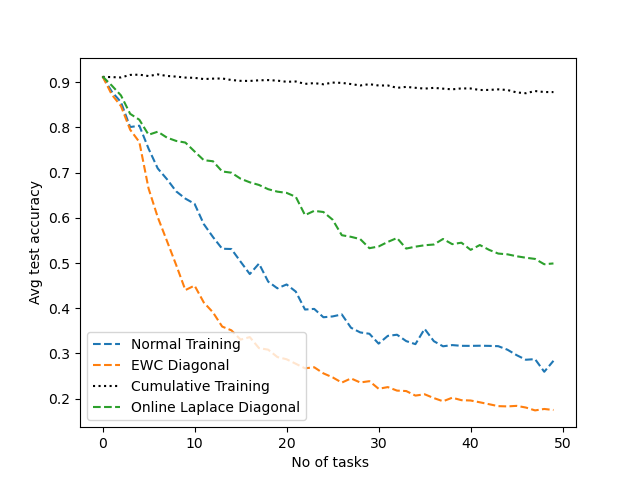
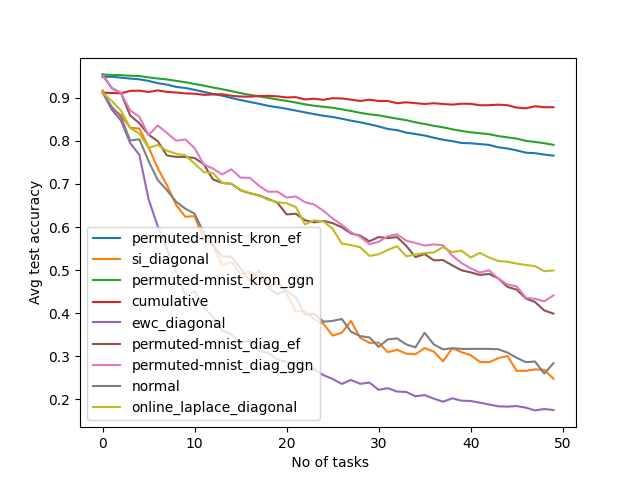
updated

diff --git a/plot.py b/plot.py
@@ -1,19 +1,31 @@
 import matplotlib.pyplot as plt
 import torch
+import os
 
-x1 = torch.load("plots/normal.pt")
-x2 = torch.load("plots/ewc_diagonal.pt")
-x3 = torch.load("plots/cumulative.pt")
-x4 = torch.load("plots/online_laplace_diagonal.pt")
-x5 = torch.load("plots/si_diagonal.pt")
-
-
-plt.plot(x1, label="Normal Training", linestyle='dashed')
-plt.plot(x2, label="EWC Diagonal", linestyle='dashed')
-plt.plot(x3, label="Cumulative Training", linestyle='dotted', color='black')
-plt.plot(x4, label="Online Laplace Diagonal", linestyle='dashed')
-plt.plot(x5, label="SI Diagonal", linestyle='dashed')
+DIR = "./plots"
+files = os.listdir(DIR)
+for i, name in enumerate(files):
+    if name.split(".")[-1] != 'png':
+        x = torch.load(f"{DIR}/{name}")
+        plt.plot(x, label=name.split(".")[0])
+    
 plt.xlabel(" No of tasks")
 plt.ylabel("Avg test accuracy")
 plt.legend()
 plt.savefig("plots/results.png")
+
+
+# x1 = torch.load("plots/normal.pt")
+# x2 = torch.load("plots/ewc_diagonal.pt")
+# x3 = torch.load("plots/cumulative.pt")
+# x4 = torch.load("plots/online_laplace_diagonal.pt")
+# x5 = torch.load("plots/si_diagonal.pt")
+# plt.plot(x1, label="Normal Training", linestyle='dashed')
+# plt.plot(x2, label="EWC Diagonal", linestyle='dashed')
+# plt.plot(x3, label="Cumulative Training", linestyle='dotted', color='black')
+# plt.plot(x4, label="Online Laplace Diagonal", linestyle='dashed')
+# plt.plot(x5, label="SI Diagonal", linestyle='dashed')
+# plt.xlabel(" No of tasks")
+# plt.ylabel("Avg test accuracy")
+# plt.legend()
+# plt.savefig("plots/results.png")

diff --git a/ivon_train.py b/ivon_train.py
@@ -57,10 +57,7 @@ class OnlineLearner():
                     y_hat = self.model(x)
                     optimizer.zero_grad()
                     classifier_loss = torch.nn.functional.cross_entropy(input=y_hat, target=y, reduction='mean')
-                    if idx >1:
-                        laplace_loss = ((self.current_hessian/idx) * (parameters_to_vector(self.model.parameters()) - self.current_parameters)**2).sum()
-                    else: 
-                        laplace_loss = 0
+                    laplace_loss = (self.current_hessian * (parameters_to_vector(self.model.parameters()) - self.current_parameters)**2).sum()
                     loss = classifier_loss + self.cfg['lambda'] * laplace_loss
                     loss.backward()
                     
